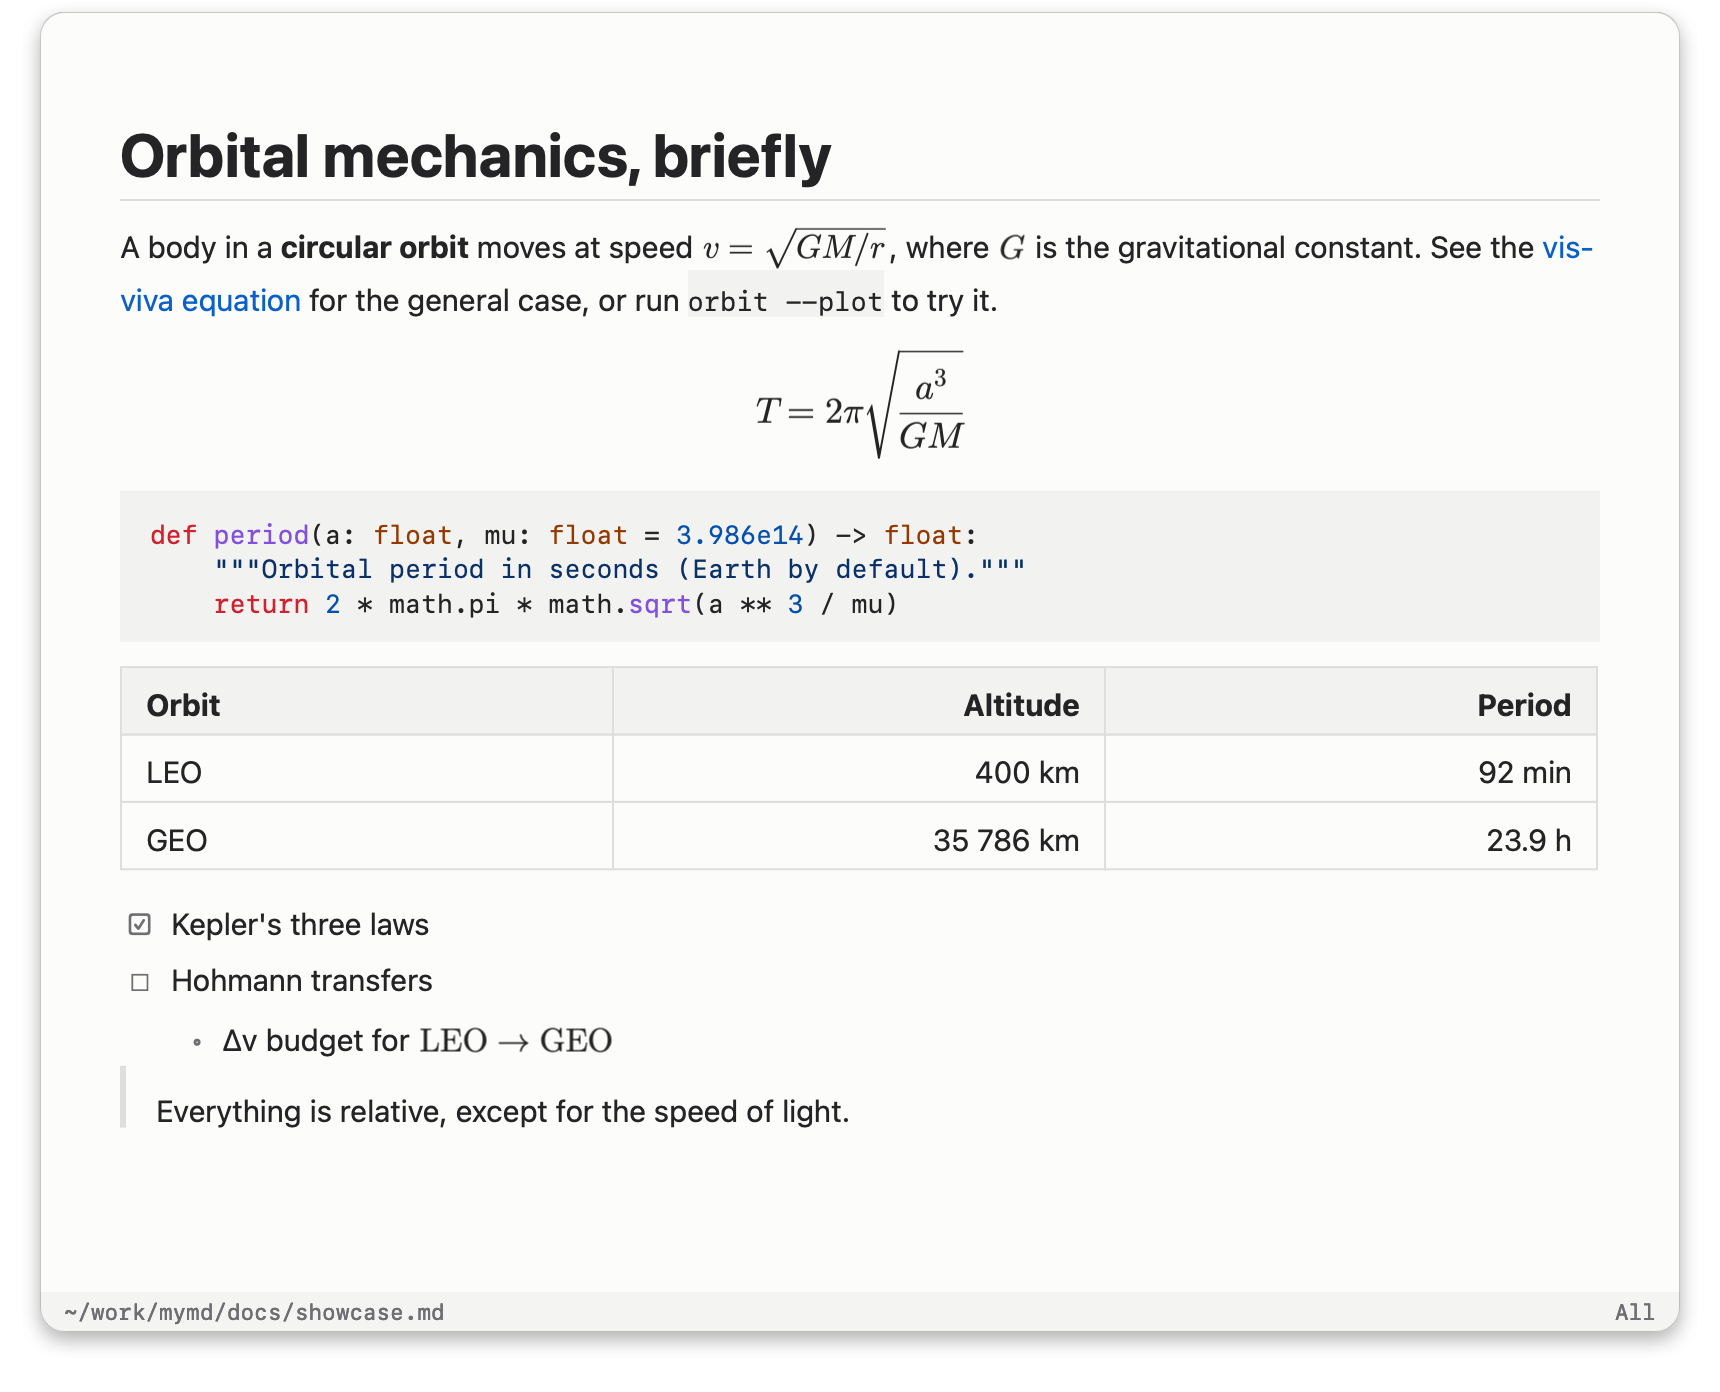
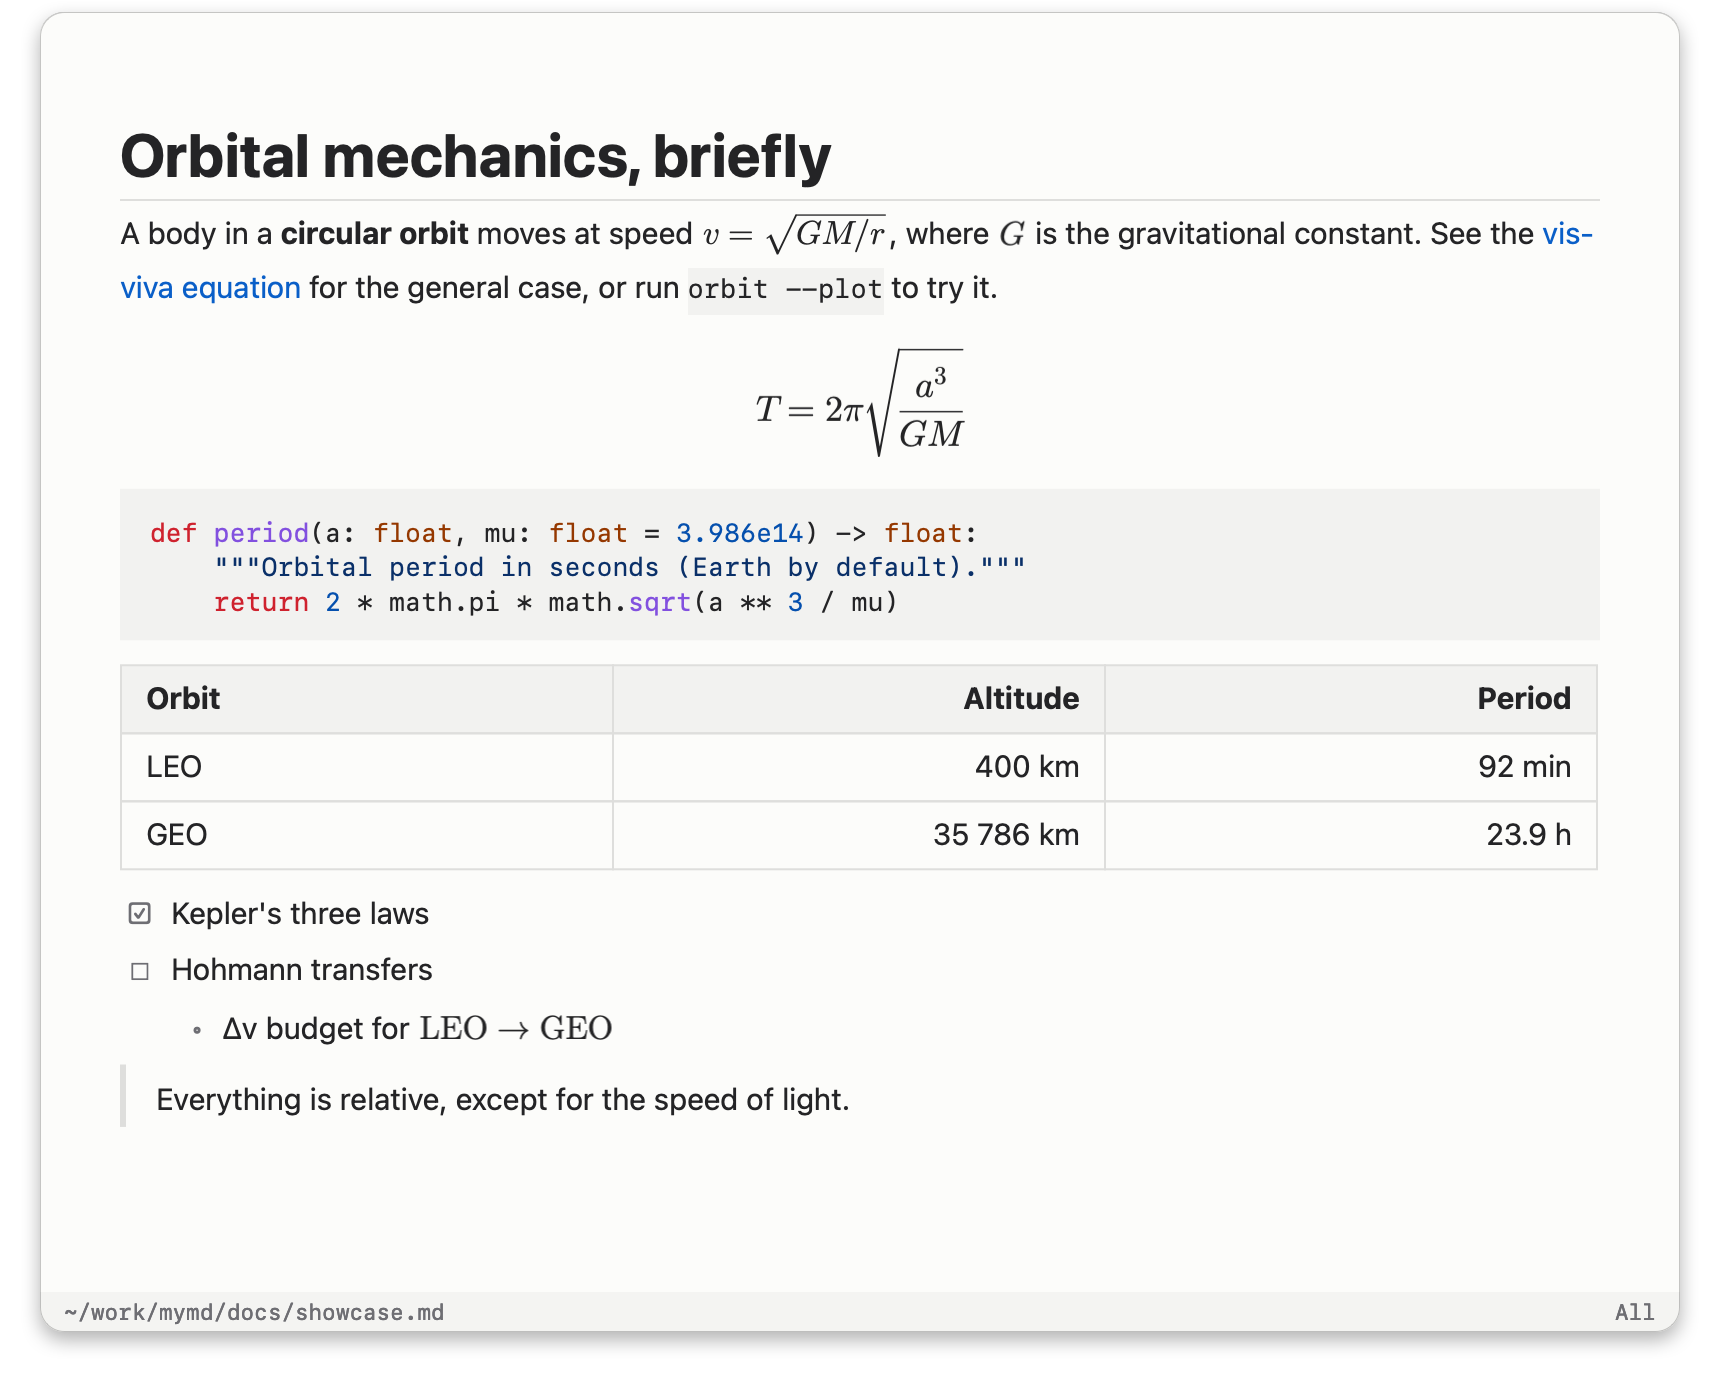
Fix huge gap above tall images
Body paragraphs used lineHeightMultiple 1.3, which scales with the
tallest thing on the line, so a 600pt image got ~180pt of extra
space above it (very visible on the README screenshot). Use a fixed
lineSpacing instead; text rhythm is unchanged.

diff --git a/Sources/Renderer.swift b/Sources/Renderer.swift
@@ -425,7 +425,9 @@ final class Renderer {
         }
 
         let ps = NSMutableParagraphStyle()
-        ps.lineHeightMultiple = 1.3
+        // Fixed extra leading, not lineHeightMultiple: a multiplier scales with the
+        // tallest thing on the line, so a large image would get a huge gap above it.
+        ps.lineSpacing = size * 0.38
         ps.paragraphSpacing = size * 0.8
         ps.headIndent = indent
         ps.firstLineHeadIndent = indent
@@ -436,6 +438,7 @@ final class Renderer {
         switch kind {
         case .header(let level)?:
             anchors[slug(content.string)] = out.length
+            ps.lineSpacing = 0
             ps.lineHeightMultiple = 1.1
             ps.paragraphSpacingBefore = out.length == 0 ? 0 : size * (level <= 2 ? 1.3 : 0.9)
             ps.paragraphSpacing = size * (level <= 2 ? 0.7 : 0.45)
@@ -458,7 +461,7 @@ final class Renderer {
             if tex.hasSuffix("\n") { tex.removeLast() }
             body = NSMutableAttributedString(attributedString: math(tex, display: true))
             ps.alignment = .center
-            ps.lineHeightMultiple = 1
+            ps.lineSpacing = 0
             ps.paragraphSpacingBefore = size * 0.2
             ps.paragraphSpacing = size
             align = true
@@ -475,6 +478,7 @@ final class Renderer {
             b.setWidth(size, type: .absoluteValueType, for: .padding, edge: .maxX)
             if indent > 0 { b.setWidth(indent, type: .absoluteValueType, for: .margin, edge: .minX) }
             blocks.append(b)
+            ps.lineSpacing = 0
             ps.lineHeightMultiple = 1.15
             ps.paragraphSpacing = 0
             ps.headIndent = 0
@@ -488,7 +492,7 @@ final class Renderer {
             b.setWidth(1, type: .absoluteValueType, for: .border, edge: .maxY)
             b.setBorderColor(Palette.rule, for: .maxY)
             blocks.append(b)
-            ps.lineHeightMultiple = 1
+            ps.lineSpacing = 0
             ps.paragraphSpacingBefore = size * 0.6
             ps.paragraphSpacing = size * 1.4
         case nil:
@@ -565,7 +569,7 @@ final class Renderer {
         }
         let ps = NSMutableParagraphStyle()
         ps.alignment = col < t.aligns.count ? t.aligns[col] : .natural
-        ps.lineHeightMultiple = 1.15
+        ps.lineSpacing = size * 0.2
         ps.textBlocks = t.outer + [b]
         p.append(NSAttributedString(string: "\n", attributes: [.font: body]))
         p.addAttribute(.paragraphStyle, value: ps, range: NSRange(location: 0, length: p.length))
